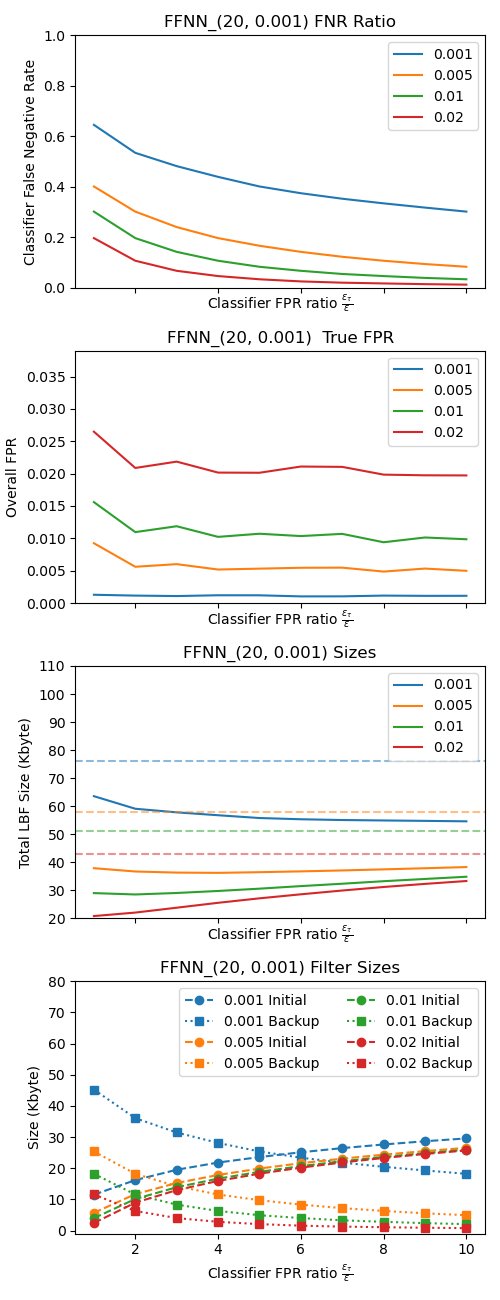
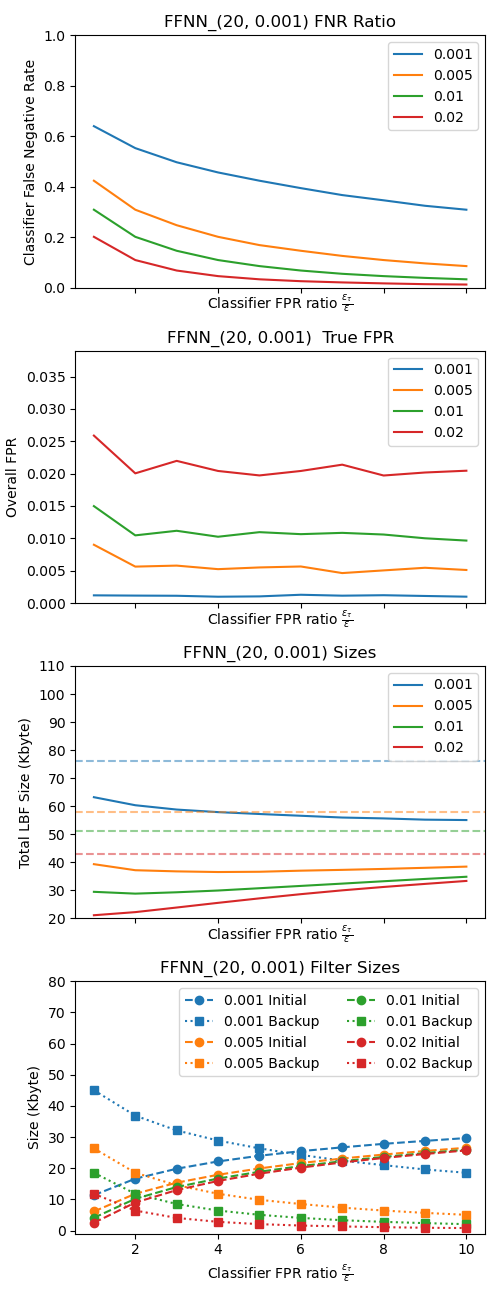
grafici finali

diff --git a/risultati/tabelle/results.tex b/risultati/tabelle/results.tex
@@ -8,61 +8,61 @@
 \hline
 \textbf{BF} &      & \textbf{Totale} & 76.00 & 58.00 & 51.00 & 43.00 \\
 \multirow{14}{*}{\textbf{LBF}} & \multirow{2}{*}{\textbf{FFNN(20, 0.001)}} & \textbf{Classificatore} &  6.81 &  6.81 &  6.81 &  6.81 \\
-     &      & \textbf{Totale} & 70.04 & 39.74 & 29.55 & 20.98 \\
+     &      & \textbf{Totale} & 67.41 & 41.13 & 30.48 & 21.26 \\
 \cline{2-7}
      & \multirow{2}{*}{\textbf{FFNN(30, 0.001)}} & \textbf{Classificatore} & 10.09 & 10.09 & 10.09 & 10.09 \\
-     &      & \textbf{Totale} & 68.43 & 41.23 & 31.08 & 22.40 \\
+     &      & \textbf{Totale} & 65.37 & 40.42 & 30.40 & 22.18 \\
 \cline{2-7}
      & \multirow{2}{*}{\textbf{FFNN\_Bin(10, 0.001)}} & \textbf{Classificatore} &  8.53 &  8.53 &  8.53 &  8.53 \\
-     &      & \textbf{Totale} & 75.01 & 44.26 & 30.49 & 21.13 \\
+     &      & \textbf{Totale} & 76.14 & 46.11 & 32.08 & 21.63 \\
 \cline{2-7}
      & \multirow{2}{*}{\textbf{FFNN\_Bin(8, 0.001)}} & \textbf{Classificatore} &  6.87 &  6.87 &  6.87 &  6.87 \\
-     &      & \textbf{Totale} & 75.98 & 49.45 & 34.56 & 22.33 \\
+     &      & \textbf{Totale} & 76.57 & 49.19 & 34.16 & 23.11 \\
 \cline{2-7}
      & \multirow{2}{*}{\textbf{RNN16}} & \textbf{Classificatore} &  9.67 &  9.67 &  9.67 &  9.67 \\
-     &      & \textbf{Totale} & 86.52 & 64.79 & 53.37 & 40.06 \\
+     &      & \textbf{Totale} & 82.69 & 64.28 & 56.55 & 48.28 \\
 \cline{2-7}
      & \multirow{2}{*}{\textbf{RNN4}} & \textbf{Classificatore} &  5.78 &  5.78 &  5.78 &  5.78 \\
-     &      & \textbf{Totale} & 77.82 & 59.92 & 52.16 & 44.80 \\
+     &      & \textbf{Totale} & 77.76 & 59.47 & 51.42 & 43.75 \\
 \cline{2-7}
      & \multirow{2}{*}{\textbf{RNN8}} & \textbf{Classificatore} &  6.70 &  6.70 &  6.70 &  6.70 \\
-     &      & \textbf{Totale} & 82.94 & 61.51 & 49.81 & 34.50 \\
+     &      & \textbf{Totale} & 78.93 & 58.93 & 48.15 & 36.51 \\
 \cline{1-7}
 \cline{2-7}
-\multirow{28}{*}{\textbf{SLBF}} & \multirow{4}{*}{\textbf{FFNN(20, 0.001)}} & \textbf{Backup} & 18.22 & 11.58 & 11.58 & 11.58 \\
+\multirow{28}{*}{\textbf{SLBF}} & \multirow{4}{*}{\textbf{FFNN(20, 0.001)}} & \textbf{Backup} & 18.55 & 11.81 & 11.81 & 11.81 \\
      &      & \textbf{Classificatore} &  6.81 &  6.81 &  6.81 &  6.81 \\
-     &      & \textbf{Iniziale} & 29.58 & 17.84 & 10.14 &  2.43 \\
-     &      & \textbf{Totale} & 54.61 & 36.23 & 28.53 & 20.82 \\
+     &      & \textbf{Iniziale} & 29.70 & 17.91 & 10.21 &  2.50 \\
+     &      & \textbf{Totale} & 55.06 & 36.53 & 28.82 & 21.12 \\
 \cline{2-7}
-     & \multirow{4}{*}{\textbf{FFNN(30, 0.001)}} & \textbf{Backup} & 16.86 & 10.26 & 10.26 & 10.26 \\
+     & \multirow{4}{*}{\textbf{FFNN(30, 0.001)}} & \textbf{Backup} & 16.44 & 12.65 & 16.44 & 10.23 \\
      &      & \textbf{Classificatore} & 10.09 & 10.09 & 10.09 & 10.09 \\
-     &      & \textbf{Iniziale} & 29.12 & 17.45 &  9.75 &  2.05 \\
-     &      & \textbf{Totale} & 56.07 & 37.80 & 30.10 & 22.40 \\
+     &      & \textbf{Iniziale} & 28.98 & 14.77 &  3.39 &  2.04 \\
+     &      & \textbf{Totale} & 55.51 & 37.52 & 29.92 & 22.36 \\
 \cline{2-7}
-     & \multirow{4}{*}{\textbf{FFNN\_Bin(10, 0.001)}} & \textbf{Backup} & 17.31 & 13.10 & 10.72 & 10.72 \\
+     & \multirow{4}{*}{\textbf{FFNN\_Bin(10, 0.001)}} & \textbf{Backup} & 17.85 & 10.79 & 10.79 & 10.79 \\
      &      & \textbf{Classificatore} &  8.53 &  8.53 &  8.53 &  8.53 \\
-     &      & \textbf{Iniziale} & 29.27 & 14.90 &  9.88 &  2.18 \\
-     &      & \textbf{Totale} & 55.10 & 36.53 & 29.13 & 21.43 \\
+     &      & \textbf{Iniziale} & 29.45 & 17.60 &  9.90 &  2.20 \\
+     &      & \textbf{Totale} & 55.83 & 36.92 & 29.21 & 21.51 \\
 \cline{2-7}
-     & \multirow{4}{*}{\textbf{FFNN\_Bin(8, 0.001)}} & \textbf{Backup} & 20.36 & 12.47 & 12.47 & 12.47 \\
+     & \multirow{4}{*}{\textbf{FFNN\_Bin(8, 0.001)}} & \textbf{Backup} & 20.74 & 10.64 & 12.72 & 12.72 \\
      &      & \textbf{Classificatore} &  6.87 &  6.87 &  6.87 &  6.87 \\
-     &      & \textbf{Iniziale} & 30.41 & 18.12 & 10.42 &  2.72 \\
-     &      & \textbf{Totale} & 57.64 & 37.47 & 29.76 & 22.06 \\
+     &      & \textbf{Iniziale} & 30.57 & 20.18 & 10.50 &  2.80 \\
+     &      & \textbf{Totale} & 58.18 & 37.69 & 30.09 & 22.39 \\
 \cline{2-7}
-     & \multirow{4}{*}{\textbf{RNN16}} & \textbf{Backup} & 28.17 &  9.64 &  5.12 &  5.12 \\
+     & \multirow{4}{*}{\textbf{RNN16}} & \textbf{Backup} & 29.09 & 13.76 &  5.74 &  2.13 \\
      &      & \textbf{Classificatore} &  9.67 &  9.67 &  9.67 &  9.67 \\
-     &      & \textbf{Iniziale} & 36.13 & 28.08 & 24.27 & 16.57 \\
-     &      & \textbf{Totale} & 73.97 & 47.38 & 39.06 & 31.36 \\
+     &      & \textbf{Iniziale} & 41.41 & 30.30 & 27.07 & 22.06 \\
+     &      & \textbf{Totale} & 80.16 & 53.73 & 42.48 & 33.85 \\
 \cline{2-7}
-     & \multirow{4}{*}{\textbf{RNN4}} & \textbf{Backup} & 47.82 & 14.83 &  5.85 &  4.24 \\
+     & \multirow{4}{*}{\textbf{RNN4}} & \textbf{Backup} & 42.28 & 14.90 &  4.78 &  3.17 \\
      &      & \textbf{Classificatore} &  5.78 &  5.78 &  5.78 &  5.78 \\
-     &      & \textbf{Iniziale} & 24.14 & 31.21 & 27.11 & 20.94 \\
-     &      & \textbf{Totale} & 77.73 & 51.81 & 38.75 & 30.95 \\
+     &      & \textbf{Iniziale} & 28.86 & 31.28 & 26.73 & 20.60 \\
+     &      & \textbf{Totale} & 76.92 & 51.95 & 37.29 & 29.55 \\
 \cline{2-7}
-     & \multirow{4}{*}{\textbf{RNN8}} & \textbf{Backup} & 27.56 & 10.12 &  7.06 &  8.38 \\
+     & \multirow{4}{*}{\textbf{RNN8}} & \textbf{Backup} & 27.78 & 10.75 &  7.31 &  6.24 \\
      &      & \textbf{Classificatore} &  6.70 &  6.70 &  6.70 &  6.70 \\
-     &      & \textbf{Iniziale} & 35.26 & 28.28 & 23.38 & 14.35 \\
-     &      & \textbf{Totale} & 69.52 & 45.10 & 37.14 & 29.44 \\
+     &      & \textbf{Iniziale} & 35.55 & 28.56 & 23.47 & 16.94 \\
+     &      & \textbf{Totale} & 70.02 & 46.01 & 37.48 & 29.89 \\
 \hline
 \end{tabular}
 \end{table}

diff --git a/local_exec/main.py b/local_exec/main.py
@@ -57,7 +57,7 @@ def tau_graph(probs0, probs1, BF_sizes, fprs, LBF_fpr_ratio, SLBF_fpr_ratio, pre
 
     return true_fpr_LBF, true_fpr_SLBF, sizes_LBF, sizes_SLBF, df_result_LBF, df_result_SLBF
 
-def comparison_graph(df_best_sizes, df_sizes, fprs, ffnn_par, rnn_par, save_loc):
+def comparison_graph(df_best_sizes, df_sizes, fprs, ffnn_par, ffnn_bin_par, rnn_par, save_loc):
     '''
     Genera il grafico di confronto delle dimensioni delle strutture al variare dell'fpr per ognuno dei classificatori testati.
     '''
@@ -70,6 +70,10 @@ def comparison_graph(df_best_sizes, df_sizes, fprs, ffnn_par, rnn_par, save_loc)
     for par in ffnn_par:
         axes[0].scatter(df_sizes['LBF'][f'FFNN{par}']['x'], df_sizes['LBF'][f'FFNN{par}']['y'], marker = '.')
         axes[1].scatter(df_sizes['SLBF'][f'FFNN{par}']['x'], df_sizes['SLBF'][f'FFNN{par}']['y'], marker = '.')
+
+    for par in ffnn_bin_par:
+        axes[0].scatter(df_sizes['LBF'][f'FFNN_Bin{par}']['x'], df_sizes['LBF'][f'FFNN_Bin{par}']['y'], marker = '.')
+        axes[1].scatter(df_sizes['SLBF'][f'FFNN_Bin{par}']['x'], df_sizes['SLBF'][f'FFNN_Bin{par}']['y'], marker = '.')
 
     for par in rnn_par:
         axes[0].scatter(df_sizes['LBF'][f'RNN{par}']['x'], df_sizes['LBF'][f'RNN{par}']['y'], marker = '.')
@@ -192,7 +196,7 @@ def main(args):
             dataframe_result, scatter_result = update_dfs(dataframe_result, df_result_LBF, df_result_SLBF, scatter_result, true_fpr_SLBF, sizes_SLBF, true_fpr_LBF, sizes_LBF, par, fpr, f"RNN{par}")
 
     # Genero grafico di confronto spazio tra RNN e FFNN
-    comparison_graph(dataframe_result, scatter_result, fprs, FFNN_params, RNN_params, save_loc)
+    comparison_graph(dataframe_result, scatter_result, fprs, FFNN_params, FFNN_bin_params, RNN_params, save_loc)
     
     # Salvo tabella risultati
     with open(f'{save_loc}/tabelle/results.tex', 'a') as file:
